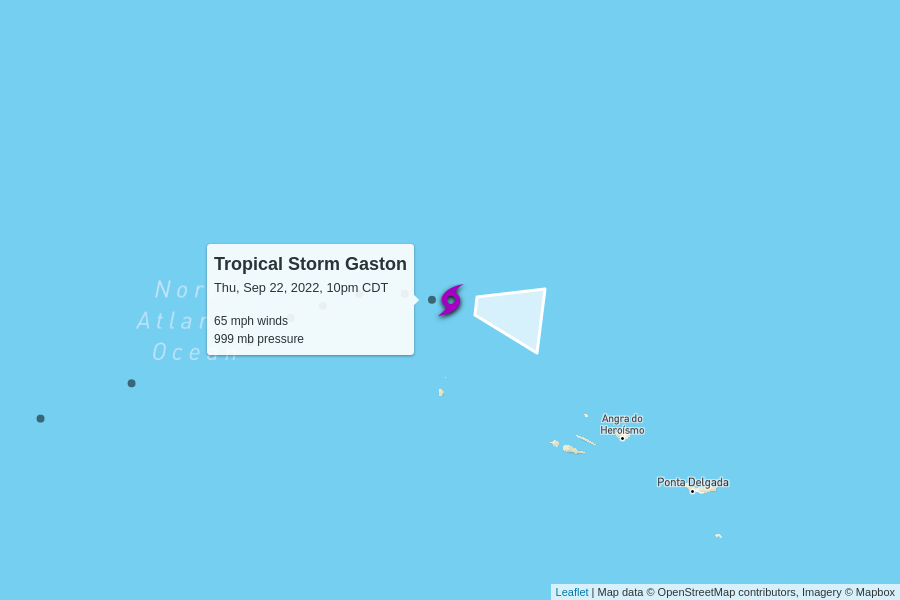
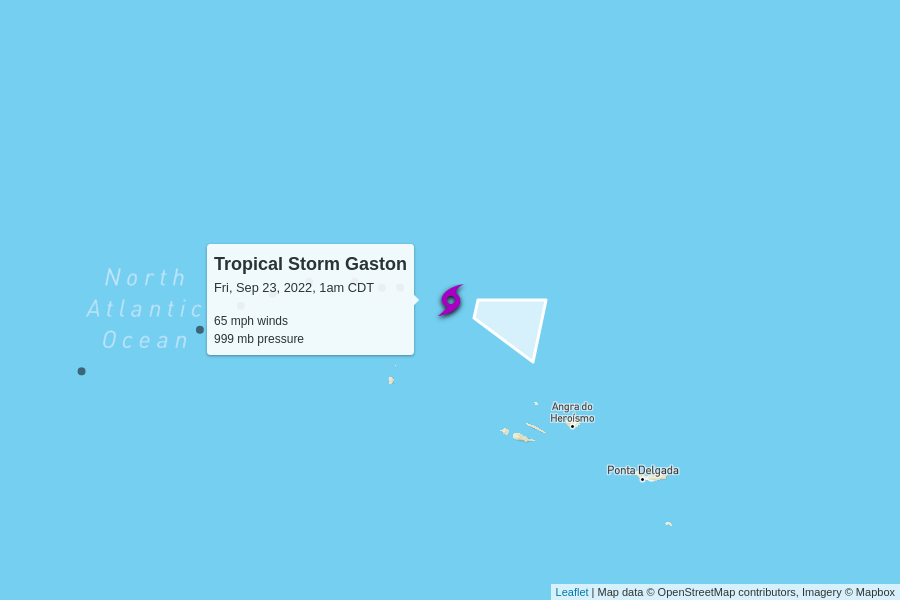
automatic update

diff --git a/docs/index.html b/docs/index.html
@@ -100,7 +100,7 @@
         <td colspan="6" class="storm category-4" >
           <h2>
             Hurricane Fiona - Category 4
-            <p class="updated">last updated <span data-time>2022-09-23T03:00:00.000Z</span></p>
+            <p class="updated">last updated <span data-time>2022-09-23T06:00:00.000Z</span></p>
           </h2>
         </td>
       </tr>
@@ -116,7 +116,7 @@
       <tr>
         <td class="spacer"></td>
         <td>130 mph</td>
-        <td>932 mb</td>
+        <td>935 mb</td>
         <td>
           21 mph to the north-northeast
           <br/>
@@ -144,7 +144,7 @@
         <td colspan="6" class="storm category-0" >
           <h2>
             Tropical Storm Gaston
-            <p class="updated">last updated <span data-time>2022-09-23T03:00:00.000Z</span></p>
+            <p class="updated">last updated <span data-time>2022-09-23T06:00:00.000Z</span></p>
           </h2>
         </td>
       </tr>
@@ -162,9 +162,9 @@
         <td>65 mph</td>
         <td>999 mb</td>
         <td>
-          12 mph to the east
+          14 mph to the east-southeast
           <br/>
-          <span style="display: inline-block; font-size: 1.5em; transform: rotate(100deg);">↑</span>
+          <span style="display: inline-block; font-size: 1.5em; transform: rotate(105deg);">↑</span>
         </td>
         <td><a href="https://raw.githubusercontent.com/mgwalker/atlantic-hurricanes/main/data/csv/AL082022.csv">AL082022.csv</a></td>
         <td><a href="https://www.nhc.noaa.gov/archive/2022/GASTON.shtml?">NHC advisories</a></td>
